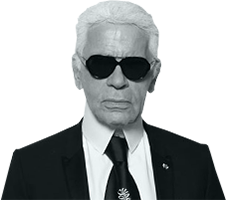
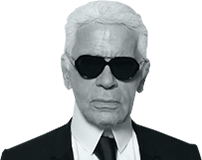
:art: Testimonials

diff --git a/inte/css/main.css b/inte/css/main.css
@@ -2716,27 +2716,61 @@ select::-ms-expand {
 
 /* Quotes */
 .quotes {
-  background: linear-gradient(to bottom, #818a8c 0%, #636a6b 100%); }
+  background: linear-gradient(to bottom, #818a8c 0%, #636a6b 100%);
+  position: relative;
+  overflow: hidden; }
+  .quotes .grid {
+    display: table;
+    table-layout: fixed; }
 
 .quote {
   position: relative;
   color: #fff;
-  min-height: 200px; }
+  display: table-cell;
+  vertical-align: top;
+  border-right: 1px solid #9aa1a3; }
+  .quote:before, .quote:after {
+    background: #fff;
+    content: '';
+    position: absolute; }
+  .quote:before {
+    width: 1px;
+    height: 15px; }
+  .quote:after {
+    width: 35px;
+    height: 1px;
+    border-left: 10px solid #fff;
+    border-right: 10px solid #fff; }
+  .quote:before, .quote:after {
+    top: 50%; }
+  .quote:before {
+    right: -1px;
+    margin-top: -7px; }
+  .quote:after {
+    right: -8px;
+    border: none;
+    width: 15px; }
+  .quote:last-child {
+    border: none; }
+    .quote:last-child:before, .quote:last-child:after {
+      display: none; }
   .quote .img-quote {
     width: 50%;
     position: absolute;
-    bottom: 0;
+    bottom: -1px;
     right: 0;
     text-align: left; }
   .quote blockquote {
     position: relative;
     width: 50%;
     margin: 0;
-    padding: 35px 0 15px 0; }
+    padding: 35px 0 15px 0;
+    min-height: 180px; }
     .quote blockquote p {
       color: #fff;
       font-size: 1.8rem;
-      margin: 0 0 12px 0; }
+      margin: 0 0 12px 0;
+      line-height: 1.2; }
     .quote blockquote footer {
       font-size: 1.4rem; }
 
@@ -2820,7 +2854,10 @@ select::-ms-expand {
   .portfolio-list .hover, .portfolio-list .txt {
     bottom: 20px; }
   .portfolio-list .po-item a.transfered:hover > img, .portfolio-list .po-item a.transfered:focus > img, .portfolio-list .po-item a.transfered.on > img, .portfolio-list li a.transfered:hover > img, .portfolio-list li a.transfered:focus > img, .portfolio-list li a.transfered.on > img {
-    transform: translate3d(0, -40px, 0); } }
+    transform: translate3d(0, -40px, 0); }
+
+  .quote blockquote p {
+    font-size: 1.6rem; } }
 @media (max-width: 1225px) {
   .post-title {
     font-size: 2.4rem; }
@@ -2958,7 +2995,18 @@ select::-ms-expand {
   .content-header.has-video .img {
     display: block; }
   .content-header .wrapper-video {
-    display: none; } }
+    display: none; }
+
+  .quote {
+    width: 50%; }
+    .quote:nth-child(2) {
+      border: none; }
+      .quote:nth-child(2):before, .quote:nth-child(2):after {
+        display: none; }
+    .quote:nth-child(3) {
+      display: none; }
+    .quote blockquote p {
+      font-size: 1.8rem; } }
 @media (max-width: 767px) {
   body {
     font-size: 1.4em; }
@@ -3041,7 +3089,22 @@ select::-ms-expand {
     display: none; }
 
   .wrapper-btn-glob {
-    width: 33.3333%; } }
+    width: 33.3333%; }
+
+  .quote {
+    width: 100%; }
+    .quote:nth-child(1) {
+      border: none; }
+      .quote:nth-child(1):before, .quote:nth-child(1):after {
+        display: none; }
+    .quote:nth-child(2) {
+      display: none; }
+    .quote blockquote {
+      width: 100%;
+      padding-left: 8.3333333333%;
+      padding-right: 50%; }
+    .quote .img-quote {
+      width: 50%; } }
 @media (max-width: 540px) {
   h1 {
     width: 100%; }
@@ -3104,7 +3167,12 @@ select::-ms-expand {
   .portfolio-list .po-item.cta {
     font-size: 1.2rem; }
     .portfolio-list .po-item.cta .btn-invert {
-      font-size: 0.8rem; } }
+      font-size: 0.8rem; }
+
+  .quote blockquote {
+    padding-right: 33.3333333333%; }
+  .quote .img-quote {
+    width: 33.3333333333%; } }
 @media (max-width: 420px) {
   h2 {
     width: auto;
@@ -3135,7 +3203,12 @@ select::-ms-expand {
   .portfolio-list .po-item.cta {
     font-size: 1.2rem; }
     .portfolio-list .po-item.cta .btn-invert {
-      font-size: 0.7rem; } }
+      font-size: 0.7rem; }
+
+  .quote blockquote {
+    padding-right: 16.6666666667%; }
+  .quote .img-quote {
+    right: -54px; } }
 @media (max-height: 1000px) {
   h1 {
     margin: 8vh auto; } }

diff --git a/inte/index.html b/inte/index.html
@@ -1693,7 +1693,7 @@
                                             <li><a href='#' class='btn-arrow-only left'>Profil précédent</a></li>
                                             <li><a href='#' class='btn-arrow-only'>Profil suivant</a></li>
                                         </ul>
-                                        <p>Lorem ipsum dolor sit amet, consectetur adipiscing elit. Donec justo risus, ullamcorper et ultrices malesuada, ornare vel sem. Phasellus eu nulla sed lectus malesuada sagittis. </p>
+                                        <p>Lorem ipsum dolor sit amet, consectetur adipiscing elit. Donec justo risus, ullamcorper et ultrices malesuada, ornare vel sem. Phasellus eu nulla sed lectus malesuada sagittis.</p>
                                         <ul class='social social-desc'>
                                             <li>
                                                 <a href='#' target='_blank'><span class='icon-linkedin'></span>Linkedin profile</a>
@@ -1984,7 +1984,7 @@
                                     </blockquote>
                                 </div><div class='col-4 quote'>
                                     <div class='img-quote'>
-                                        <img src='img/testimonials/nicolas-dessaigne.png'>
+                                        <img src='img/testimonials/karl-lagerfeld.png'>
                                     </div>
                                     <blockquote>
                                         <p>The minute you believe that the past was better, your present becomes second-hand, and you yourself become vintage</p>
@@ -1992,7 +1992,7 @@
                                     </blockquote>
                                 </div><div class='col-4 quote'>
                                     <div class='img-quote'>
-                                        <img src='img/testimonials/nicolas-dessaigne.png'>
+                                        <img src='img/testimonials/katia-beauchamp.png'>
                                     </div>
                                     <blockquote>
                                         <p>It’s really important to have a product that’s geared towards not the people you’re pitching to</p>

diff --git a/inte/scss/layout/_mediaqueries.scss b/inte/scss/layout/_mediaqueries.scss
@@ -66,6 +66,14 @@
             }
         }
     }
+
+    .quote{
+        blockquote{
+            p{
+                font-size: 1.6rem;
+            }
+        }
+    }
 }
 
 @media (max-width: 1225px){
@@ -301,6 +309,24 @@
             display: none;
         }
     }
+
+    .quote{
+        width: 50%;
+        &:nth-child(2){
+            border: none;
+            &:before, &:after{
+                display: none;
+            }
+        }
+        &:nth-child(3){
+            display: none;
+        }
+        blockquote{
+            p{
+                font-size: 1.8rem;
+            }
+        }
+    }
 }
 
 @media (max-width: 767px){
@@ -434,6 +460,27 @@
     .wrapper-btn-glob{
         width: 33.3333%;
     }
+
+    .quote{
+        width: 100%;
+        &:nth-child(1){
+            border: none;
+            &:before, &:after{
+                display: none;
+            }
+        }
+        &:nth-child(2){
+            display: none;
+        }
+        blockquote{
+            width: 100%;
+            padding-left: $col;
+            padding-right: $col*6;
+        }
+        .img-quote{
+            width: $col*6;
+        }
+    }
 }
 
 @media (max-width: 540px){
@@ -536,6 +583,14 @@
             }
         }
     }
+    .quote{
+        blockquote{
+            padding-right: $col*4;
+        }
+        .img-quote{
+            width: $col*4;
+        }
+    }
 }
 
 @media (max-width: 420px){
@@ -586,6 +641,16 @@
                     font-size: 0.7rem;
                 }
             }
+        }
+    }
+
+    .quote{
+        blockquote{
+            padding-right: $col*2;
+        }
+        .img-quote{
+            //width: $col*4;
+            right: -54px;
         }
     }
 }

diff --git a/inte/scss/components/_quotes.scss b/inte/scss/components/_quotes.scss
@@ -2,16 +2,43 @@
 
 .quotes{
     background: linear-gradient(to bottom, rgba(129,138,140,1) 0%,rgba(99,106,107,1) 100%);
+    position: relative;
+    overflow: hidden;
+    .grid{
+        display: table;
+        table-layout: fixed;
+    }
 }
 
 .quote{
     position: relative;
     color: #fff;
-    min-height: 200px;
+    display: table-cell;
+    vertical-align: top;
+    border-right: 1px solid #9aa1a3;
+    @include pseudoCross(#fff);
+    &:before, &:after{
+        top: 50%;
+    }
+    &:before{
+        right: -1px;
+        margin-top: -7px;
+    }
+    &:after{
+        right: -8px;
+        border: none;
+        width: 15px;
+    }
+    &:last-child{
+        border: none;
+        &:before, &:after{
+            display: none;
+        }
+    }
     .img-quote{
         width: 50%;
         position: absolute;
-        bottom: 0;
+        bottom: -1px;
         right: 0;
         text-align: left;
     }
@@ -20,10 +47,12 @@
         width: 50%;
         margin: 0;
         padding: 35px 0 15px 0;
+        min-height: 180px;
         p{
             color: #fff;
             font-size: 1.8rem;
             margin: 0 0 12px 0;
+            line-height: 1.2;
         }
         footer{
             font-size: 1.4rem;
